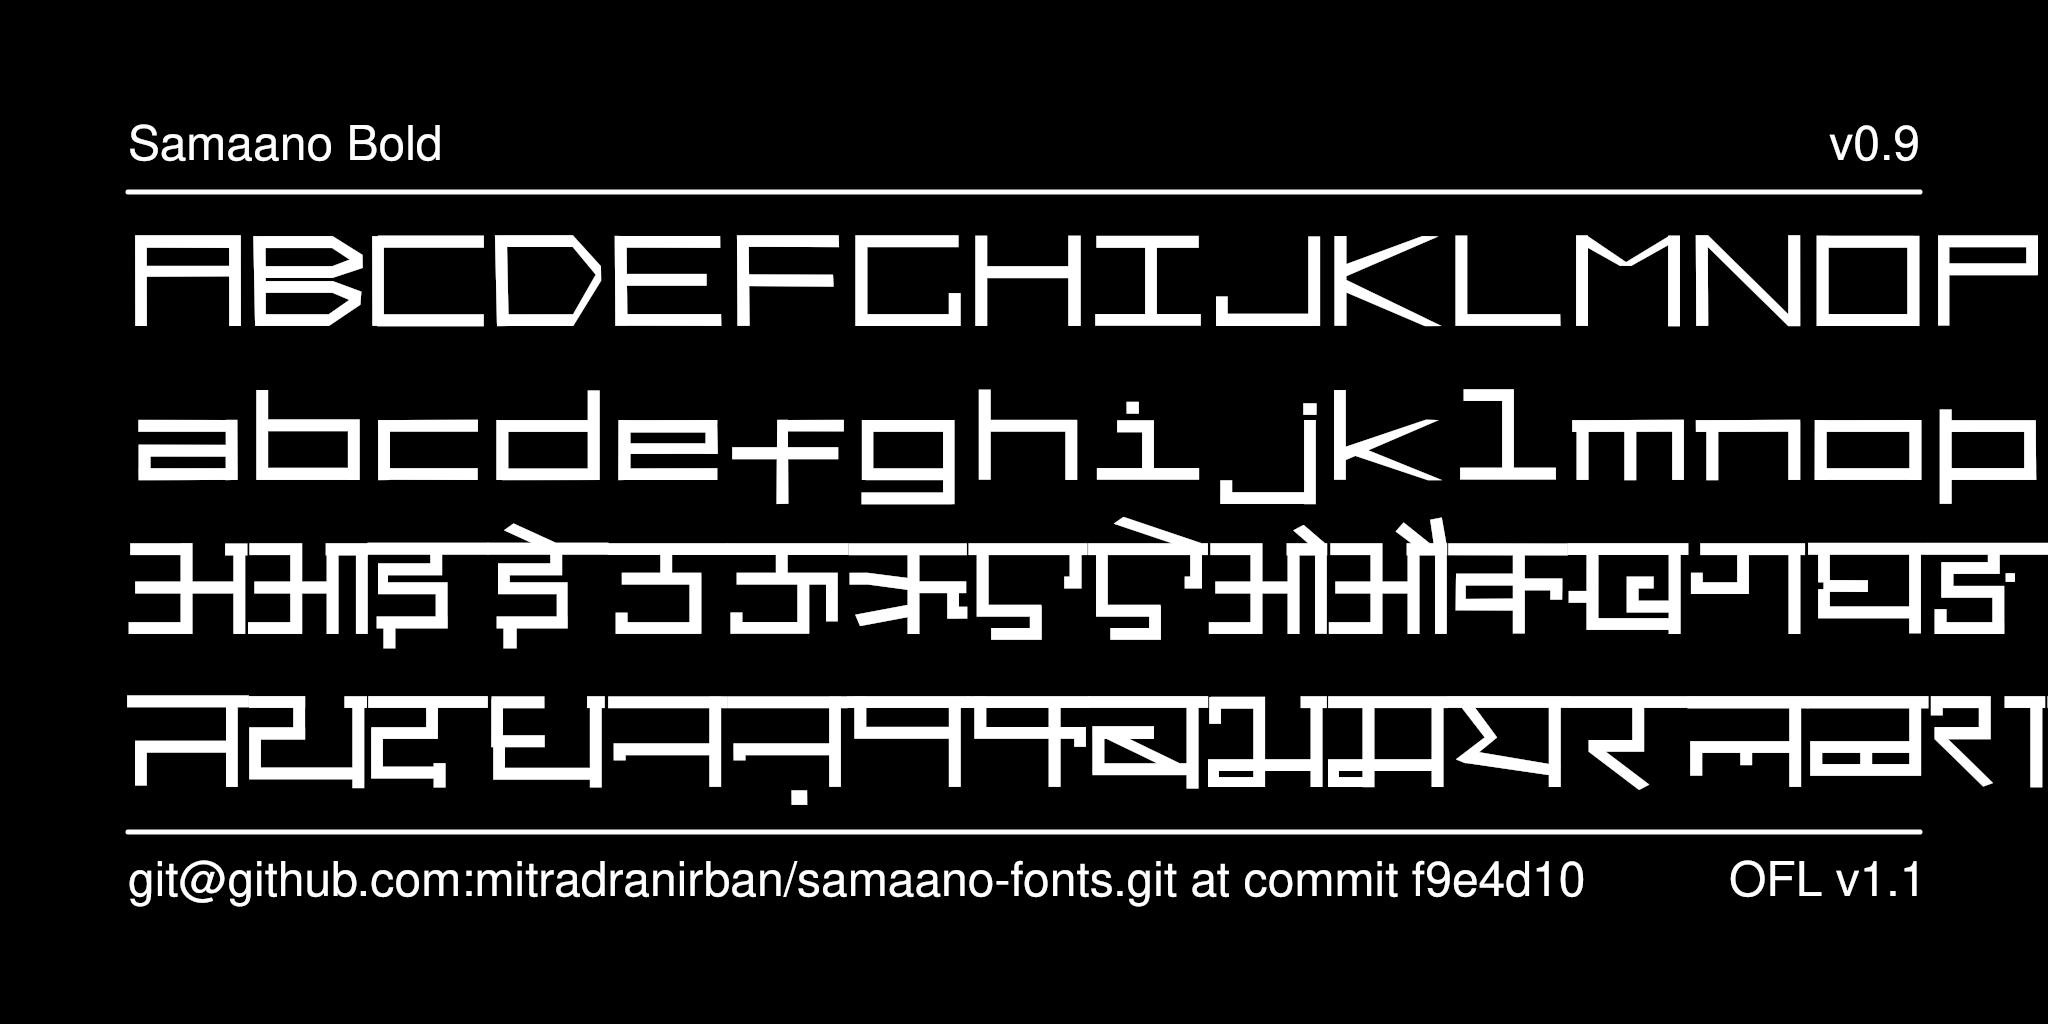
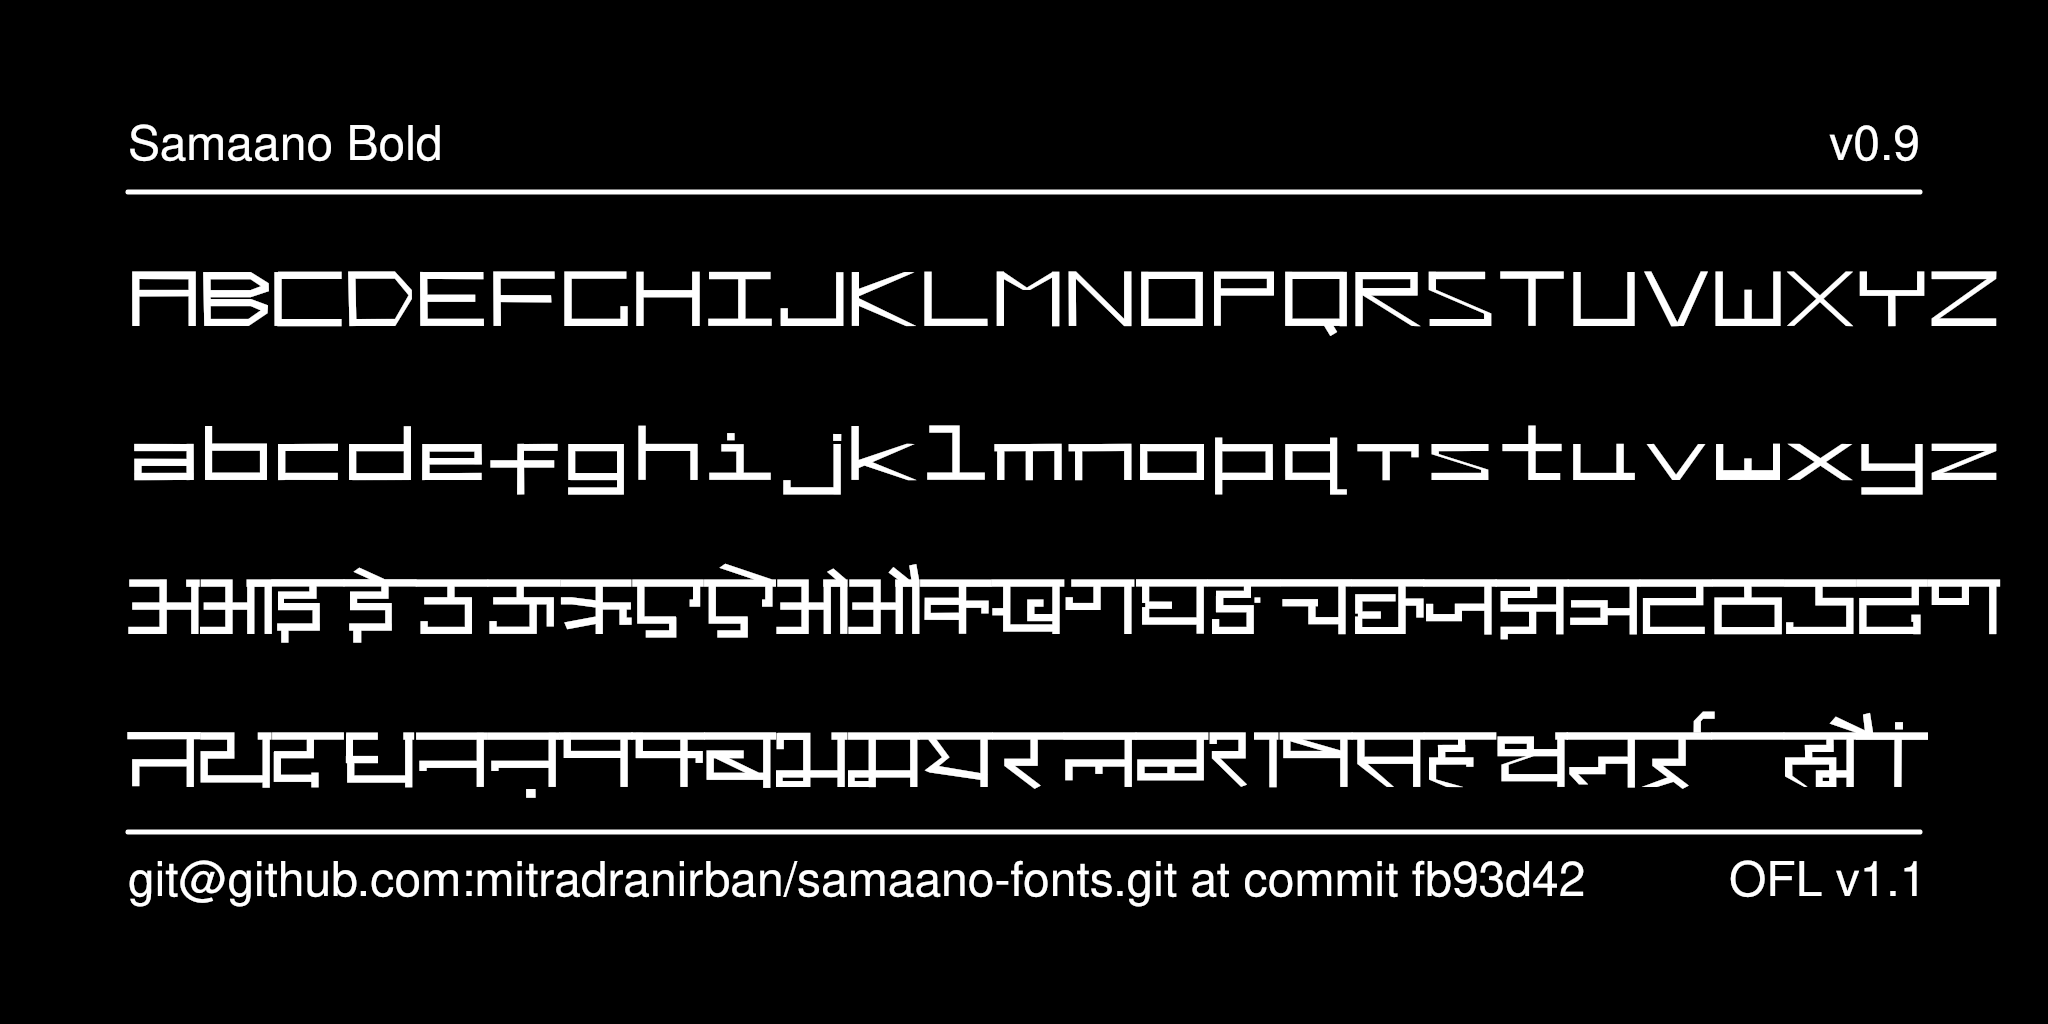
202410031000

diff --git a/out/fontbakery/fontbakery-report.html b/out/fontbakery/fontbakery-report.html
@@ -2269,19 +2269,7 @@ acutecomb (U+0301), dotbelowcomb (U+0323), glyph094D (unencoded), gravecomb (U+0
 
                             <span class='details_text'>
                             <p>The following glyphs could not be reached by codepoint or substitution rules:</p>
-<pre><code>- uni0924_uni094D_uni0924.pres
-
-- uni0926_uni094D_uni0926.pres
-
-- uni0926_uni094D_uni0927.pres
-
-- uni0926_uni094D_uni092F.pres
-
-- uni0926_uni094D_uni0935.pres
-
-- uni0930_uni094D.vatu
-
-- uni0939_uni094D_uni092E.pres
+<pre><code>- uni0930_uni094D.vatu
 </code></pre>
 
                             
@@ -3242,19 +3230,19 @@ be served. You can solve this by either manually adding additional
 subset declarations to METADATA.pb, or by editing the glyphset
 definitions.</p>
 <ul>
-<li>U+02D8 BREVE: try adding one of: yi, canadian-aboriginal</li>
-<li>U+02D9 DOT ABOVE: try adding one of: yi, canadian-aboriginal</li>
-<li>U+02DB OGONEK: try adding one of: yi, canadian-aboriginal</li>
-<li>U+0302 COMBINING CIRCUMFLEX ACCENT: try adding one of: tifinagh, coptic, math, cherokee</li>
+<li>U+02D8 BREVE: try adding one of: canadian-aboriginal, yi</li>
+<li>U+02D9 DOT ABOVE: try adding one of: canadian-aboriginal, yi</li>
+<li>U+02DB OGONEK: try adding one of: canadian-aboriginal, yi</li>
+<li>U+0302 COMBINING CIRCUMFLEX ACCENT: try adding one of: math, cherokee, coptic, tifinagh</li>
 <li>U+0306 COMBINING BREVE: try adding one of: tifinagh, old-permic</li>
-<li>U+0307 COMBINING DOT ABOVE: try adding one of: duployan, syriac, coptic, old-permic, todhri, tai-le, canadian-aboriginal, math, hebrew, tifinagh, malayalam</li>
-<li>U+030A COMBINING RING ABOVE: try adding one of: duployan, syriac</li>
-<li>U+030B COMBINING DOUBLE ACUTE ACCENT: try adding one of: osage, cherokee</li>
-<li>U+030C COMBINING CARON: try adding one of: tai-le, cherokee</li>
+<li>U+0307 COMBINING DOT ABOVE: try adding one of: canadian-aboriginal, tifinagh, todhri, malayalam, syriac, duployan, tai-le, old-permic, math, coptic, hebrew</li>
+<li>U+030A COMBINING RING ABOVE: try adding one of: syriac, duployan</li>
+<li>U+030B COMBINING DOUBLE ACUTE ACCENT: try adding one of: cherokee, osage</li>
+<li>U+030C COMBINING CARON: try adding one of: cherokee, tai-le</li>
 <li>U+0326 COMBINING COMMA BELOW: try adding math</li>
 <li>U+0327 COMBINING CEDILLA: try adding math</li>
 <li>U+0328 COMBINING OGONEK: not included in any glyphset definition</li>
-<li>U+0331 COMBINING MACRON BELOW: try adding one of: syriac, sunuwar, thai, cherokee, tifinagh, caucasian-albanian, gothic</li>
+<li>U+0331 COMBINING MACRON BELOW: try adding one of: cherokee, thai, tifinagh, syriac, sunuwar, gothic, caucasian-albanian</li>
 <li>U+2021 DOUBLE DAGGER: try adding adlam</li>
 <li>U+2030 PER MILLE SIGN: try adding adlam</li>
 <li>U+FB01 LATIN SMALL LIGATURE FI: not included in any glyphset definition</li>
@@ -3487,8 +3475,8 @@ definitions.</p>
                             <span class='details_text'>
                             <p>The dot of soft dotted characters used in orthographies <em>must</em> disappear in the following strings: i̊ i̋ j̀ j́ j̃ j̄ j̈ į̀ į́ į̂ į̃ į̄ į̌</p>
 <p>The dot of soft dotted characters <em>should</em> disappear in other cases, for example: i̇ ǐ ị̇ ị̊ ị̋ ị̌ i̦̇ i̦̊ i̦̋ ǐ̦ i̧̇ i̧̊ i̧̋ ǐ̧ i̱̇ i̱̊ i̱̋ ǐ̱ j̆ j̇</p>
-<p>Your font fully covers the following languages that require the soft-dotted feature: Ekpeye (Latn, 226,000 speakers), Igbo (Latn, 27,823,640 speakers), Ebira (Latn, 2,200,000 speakers), Dutch (Latn, 31,709,104 speakers), Ijo, Southeast (Latn, 2,471,000 speakers), Lithuanian (Latn, 2,357,094 speakers).</p>
-<p>Your font does <em>not</em> cover the following languages that require the soft-dotted feature: Ngbaka (Latn, 1,020,000 speakers), South Central Banda (Latn, 244,000 speakers), Zapotec (Latn, 490,000 speakers), Gulay (Latn, 250,478 speakers), Basaa (Latn, 332,940 speakers), Fur (Latn, 1,230,163 speakers), Belarusian (Cyrl, 10,064,517 speakers), Mundani (Latn, 34,000 speakers), Avokaya (Latn, 100,000 speakers), Nateni (Latn, 100,000 speakers), Dan (Latn, 1,099,244 speakers), Makaa (Latn, 221,000 speakers), Sar (Latn, 500,000 speakers), Lugbara (Latn, 2,200,000 speakers), Koonzime (Latn, 40,000 speakers), Southern Kisi (Latn, 360,000 speakers), Ukrainian (Cyrl, 29,273,587 speakers), Cicipu (Latn, 44,000 speakers), Mango (Latn, 77,000 speakers), Ma’di (Latn, 584,000 speakers), Aghem (Latn, 38,843 speakers), Dii (Latn, 71,000 speakers), Bete-Bendi (Latn, 100,000 speakers), Mfumte (Latn, 79,000 speakers), Ejagham (Latn, 120,000 speakers), Yala (Latn, 200,000 speakers), Kpelle, Guinea (Latn, 622,000 speakers), Nzakara (Latn, 50,000 speakers), Vute (Latn, 21,000 speakers), Navajo (Latn, 166,319 speakers), Kom (Latn, 360,685 speakers), Bafut (Latn, 158,146 speakers).</p>
+<p>Your font fully covers the following languages that require the soft-dotted feature: Ijo, Southeast (Latn, 2,471,000 speakers), Dutch (Latn, 31,709,104 speakers), Ekpeye (Latn, 226,000 speakers), Ebira (Latn, 2,200,000 speakers), Igbo (Latn, 27,823,640 speakers), Lithuanian (Latn, 2,357,094 speakers).</p>
+<p>Your font does <em>not</em> cover the following languages that require the soft-dotted feature: Fur (Latn, 1,230,163 speakers), Ma’di (Latn, 584,000 speakers), Zapotec (Latn, 490,000 speakers), Kpelle, Guinea (Latn, 622,000 speakers), Ejagham (Latn, 120,000 speakers), Lugbara (Latn, 2,200,000 speakers), Kom (Latn, 360,685 speakers), Nzakara (Latn, 50,000 speakers), Ukrainian (Cyrl, 29,273,587 speakers), Cicipu (Latn, 44,000 speakers), South Central Banda (Latn, 244,000 speakers), Avokaya (Latn, 100,000 speakers), Nateni (Latn, 100,000 speakers), Koonzime (Latn, 40,000 speakers), Yala (Latn, 200,000 speakers), Dii (Latn, 71,000 speakers), Gulay (Latn, 250,478 speakers), Belarusian (Cyrl, 10,064,517 speakers), Sar (Latn, 500,000 speakers), Mundani (Latn, 34,000 speakers), Mfumte (Latn, 79,000 speakers), Ngbaka (Latn, 1,020,000 speakers), Vute (Latn, 21,000 speakers), Basaa (Latn, 332,940 speakers), Aghem (Latn, 38,843 speakers), Dan (Latn, 1,099,244 speakers), Makaa (Latn, 221,000 speakers), Southern Kisi (Latn, 360,000 speakers), Bafut (Latn, 158,146 speakers), Bete-Bendi (Latn, 100,000 speakers), Mango (Latn, 77,000 speakers), Navajo (Latn, 166,319 speakers).</p>
 
                             
                              [code: soft-dotted]

diff --git a/documentation/image4.py b/documentation/image4.py
@@ -25,7 +25,7 @@ LINE_ONE = "ABCDEFGHIJKLMNOPQRSTUVWXYZ "
 LINE_TWO = "abcdefghijklmnopqrstuvwxyz"
 LINE_THREE = "अआइईउऊऋएऐओऔकखगघङचछजझञटठडढण"
 LINE_FOUR = "तथदधनऩपफबभमयरलळशषसहक्षज्ञर्र्रह्मौं"
-BIG_TEXT_FONT_SIZE = 120
+BIG_TEXT_FONT_SIZE = 72
 BIG_TEXT_SIDE_MARGIN = MARGIN * 1
 BIG_TEXT_BOTTOM_MARGIN = MARGIN * 5.45
 

diff --git a/documentation/image5.py b/documentation/image5.py
@@ -25,7 +25,7 @@ LINE_ONE = "ABCDEFGHIJKLMNOPQRSTUVWXYZ "
 LINE_TWO = "abcdefghijklmnopqrstuvwxyz"
 LINE_THREE = "अआइईउऊऋएऐओऔकखगघङचछजझञटठडढण"
 LINE_FOUR = "तथदधनऩपफबभमयरलळशषसहक्षज्ञर्र्रह्मौं"
-BIG_TEXT_FONT_SIZE = 120
+BIG_TEXT_FONT_SIZE = 72
 BIG_TEXT_SIDE_MARGIN = MARGIN * 1
 BIG_TEXT_BOTTOM_MARGIN = MARGIN * 5.45
 

diff --git a/out/fontbakery/fontbakery-report.md b/out/fontbakery/fontbakery-report.md
@@ -114,19 +114,7 @@ acutecomb (U+0301), dotbelowcomb (U+0323), glyph094D (unencoded), gravecomb (U+0
 
 
 * ⚠ **WARN** <p>The following glyphs could not be reached by codepoint or substitution rules:</p>
-<pre><code>- uni0924_uni094D_uni0924.pres
-
-- uni0926_uni094D_uni0926.pres
-
-- uni0926_uni094D_uni0927.pres
-
-- uni0926_uni094D_uni092F.pres
-
-- uni0926_uni094D_uni0935.pres
-
-- uni0930_uni094D.vatu
-
-- uni0939_uni094D_uni092E.pres
+<pre><code>- uni0930_uni094D.vatu
 </code></pre>
  [code: unreachable-glyphs]
 
@@ -169,19 +157,19 @@ be served. You can solve this by either manually adding additional
 subset declarations to METADATA.pb, or by editing the glyphset
 definitions.</p>
 <ul>
-<li>U+02D8 BREVE: try adding one of: yi, canadian-aboriginal</li>
-<li>U+02D9 DOT ABOVE: try adding one of: yi, canadian-aboriginal</li>
-<li>U+02DB OGONEK: try adding one of: yi, canadian-aboriginal</li>
-<li>U+0302 COMBINING CIRCUMFLEX ACCENT: try adding one of: tifinagh, coptic, math, cherokee</li>
+<li>U+02D8 BREVE: try adding one of: canadian-aboriginal, yi</li>
+<li>U+02D9 DOT ABOVE: try adding one of: canadian-aboriginal, yi</li>
+<li>U+02DB OGONEK: try adding one of: canadian-aboriginal, yi</li>
+<li>U+0302 COMBINING CIRCUMFLEX ACCENT: try adding one of: math, cherokee, coptic, tifinagh</li>
 <li>U+0306 COMBINING BREVE: try adding one of: tifinagh, old-permic</li>
-<li>U+0307 COMBINING DOT ABOVE: try adding one of: duployan, syriac, coptic, old-permic, todhri, tai-le, canadian-aboriginal, math, hebrew, tifinagh, malayalam</li>
-<li>U+030A COMBINING RING ABOVE: try adding one of: duployan, syriac</li>
-<li>U+030B COMBINING DOUBLE ACUTE ACCENT: try adding one of: osage, cherokee</li>
-<li>U+030C COMBINING CARON: try adding one of: tai-le, cherokee</li>
+<li>U+0307 COMBINING DOT ABOVE: try adding one of: canadian-aboriginal, tifinagh, todhri, malayalam, syriac, duployan, tai-le, old-permic, math, coptic, hebrew</li>
+<li>U+030A COMBINING RING ABOVE: try adding one of: syriac, duployan</li>
+<li>U+030B COMBINING DOUBLE ACUTE ACCENT: try adding one of: cherokee, osage</li>
+<li>U+030C COMBINING CARON: try adding one of: cherokee, tai-le</li>
 <li>U+0326 COMBINING COMMA BELOW: try adding math</li>
 <li>U+0327 COMBINING CEDILLA: try adding math</li>
 <li>U+0328 COMBINING OGONEK: not included in any glyphset definition</li>
-<li>U+0331 COMBINING MACRON BELOW: try adding one of: syriac, sunuwar, thai, cherokee, tifinagh, caucasian-albanian, gothic</li>
+<li>U+0331 COMBINING MACRON BELOW: try adding one of: cherokee, thai, tifinagh, syriac, sunuwar, gothic, caucasian-albanian</li>
 <li>U+2021 DOUBLE DAGGER: try adding adlam</li>
 <li>U+2030 PER MILLE SIGN: try adding adlam</li>
 <li>U+FB01 LATIN SMALL LIGATURE FI: not included in any glyphset definition</li>
@@ -207,8 +195,8 @@ definitions.</p>
 
 * ⚠ **WARN** <p>The dot of soft dotted characters used in orthographies <em>must</em> disappear in the following strings: i̊ i̋ j̀ j́ j̃ j̄ j̈ į̀ į́ į̂ į̃ į̄ į̌</p>
 <p>The dot of soft dotted characters <em>should</em> disappear in other cases, for example: i̇ ǐ ị̇ ị̊ ị̋ ị̌ i̦̇ i̦̊ i̦̋ ǐ̦ i̧̇ i̧̊ i̧̋ ǐ̧ i̱̇ i̱̊ i̱̋ ǐ̱ j̆ j̇</p>
-<p>Your font fully covers the following languages that require the soft-dotted feature: Ekpeye (Latn, 226,000 speakers), Igbo (Latn, 27,823,640 speakers), Ebira (Latn, 2,200,000 speakers), Dutch (Latn, 31,709,104 speakers), Ijo, Southeast (Latn, 2,471,000 speakers), Lithuanian (Latn, 2,357,094 speakers).</p>
-<p>Your font does <em>not</em> cover the following languages that require the soft-dotted feature: Ngbaka (Latn, 1,020,000 speakers), South Central Banda (Latn, 244,000 speakers), Zapotec (Latn, 490,000 speakers), Gulay (Latn, 250,478 speakers), Basaa (Latn, 332,940 speakers), Fur (Latn, 1,230,163 speakers), Belarusian (Cyrl, 10,064,517 speakers), Mundani (Latn, 34,000 speakers), Avokaya (Latn, 100,000 speakers), Nateni (Latn, 100,000 speakers), Dan (Latn, 1,099,244 speakers), Makaa (Latn, 221,000 speakers), Sar (Latn, 500,000 speakers), Lugbara (Latn, 2,200,000 speakers), Koonzime (Latn, 40,000 speakers), Southern Kisi (Latn, 360,000 speakers), Ukrainian (Cyrl, 29,273,587 speakers), Cicipu (Latn, 44,000 speakers), Mango (Latn, 77,000 speakers), Ma’di (Latn, 584,000 speakers), Aghem (Latn, 38,843 speakers), Dii (Latn, 71,000 speakers), Bete-Bendi (Latn, 100,000 speakers), Mfumte (Latn, 79,000 speakers), Ejagham (Latn, 120,000 speakers), Yala (Latn, 200,000 speakers), Kpelle, Guinea (Latn, 622,000 speakers), Nzakara (Latn, 50,000 speakers), Vute (Latn, 21,000 speakers), Navajo (Latn, 166,319 speakers), Kom (Latn, 360,685 speakers), Bafut (Latn, 158,146 speakers).</p>
+<p>Your font fully covers the following languages that require the soft-dotted feature: Ijo, Southeast (Latn, 2,471,000 speakers), Dutch (Latn, 31,709,104 speakers), Ekpeye (Latn, 226,000 speakers), Ebira (Latn, 2,200,000 speakers), Igbo (Latn, 27,823,640 speakers), Lithuanian (Latn, 2,357,094 speakers).</p>
+<p>Your font does <em>not</em> cover the following languages that require the soft-dotted feature: Fur (Latn, 1,230,163 speakers), Ma’di (Latn, 584,000 speakers), Zapotec (Latn, 490,000 speakers), Kpelle, Guinea (Latn, 622,000 speakers), Ejagham (Latn, 120,000 speakers), Lugbara (Latn, 2,200,000 speakers), Kom (Latn, 360,685 speakers), Nzakara (Latn, 50,000 speakers), Ukrainian (Cyrl, 29,273,587 speakers), Cicipu (Latn, 44,000 speakers), South Central Banda (Latn, 244,000 speakers), Avokaya (Latn, 100,000 speakers), Nateni (Latn, 100,000 speakers), Koonzime (Latn, 40,000 speakers), Yala (Latn, 200,000 speakers), Dii (Latn, 71,000 speakers), Gulay (Latn, 250,478 speakers), Belarusian (Cyrl, 10,064,517 speakers), Sar (Latn, 500,000 speakers), Mundani (Latn, 34,000 speakers), Mfumte (Latn, 79,000 speakers), Ngbaka (Latn, 1,020,000 speakers), Vute (Latn, 21,000 speakers), Basaa (Latn, 332,940 speakers), Aghem (Latn, 38,843 speakers), Dan (Latn, 1,099,244 speakers), Makaa (Latn, 221,000 speakers), Southern Kisi (Latn, 360,000 speakers), Bafut (Latn, 158,146 speakers), Bete-Bendi (Latn, 100,000 speakers), Mango (Latn, 77,000 speakers), Navajo (Latn, 166,319 speakers).</p>
  [code: soft-dotted]
 
 
